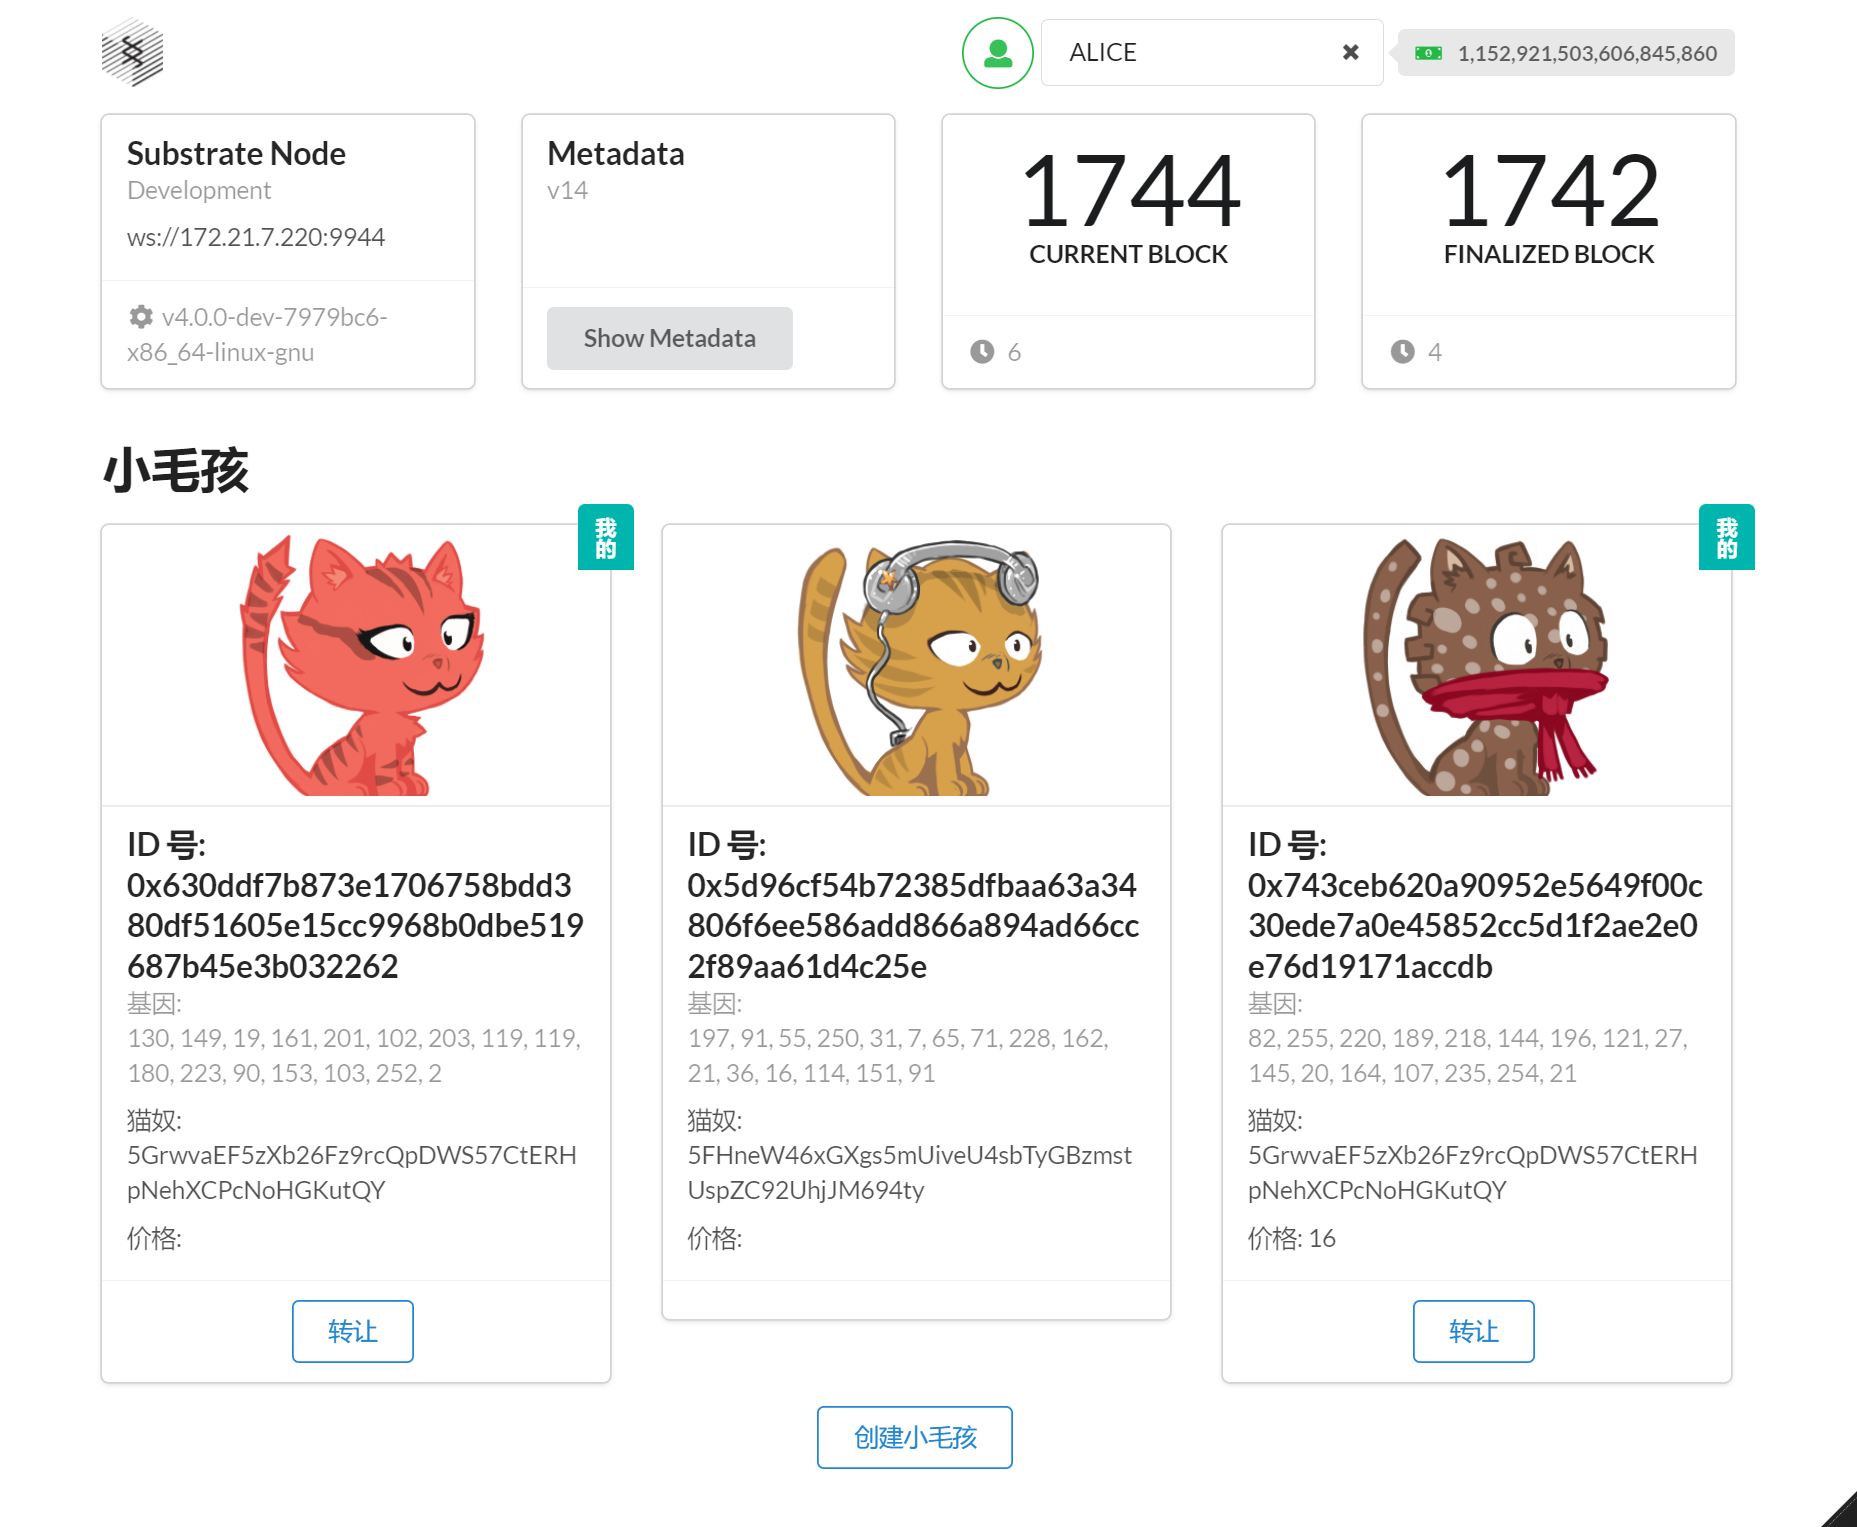
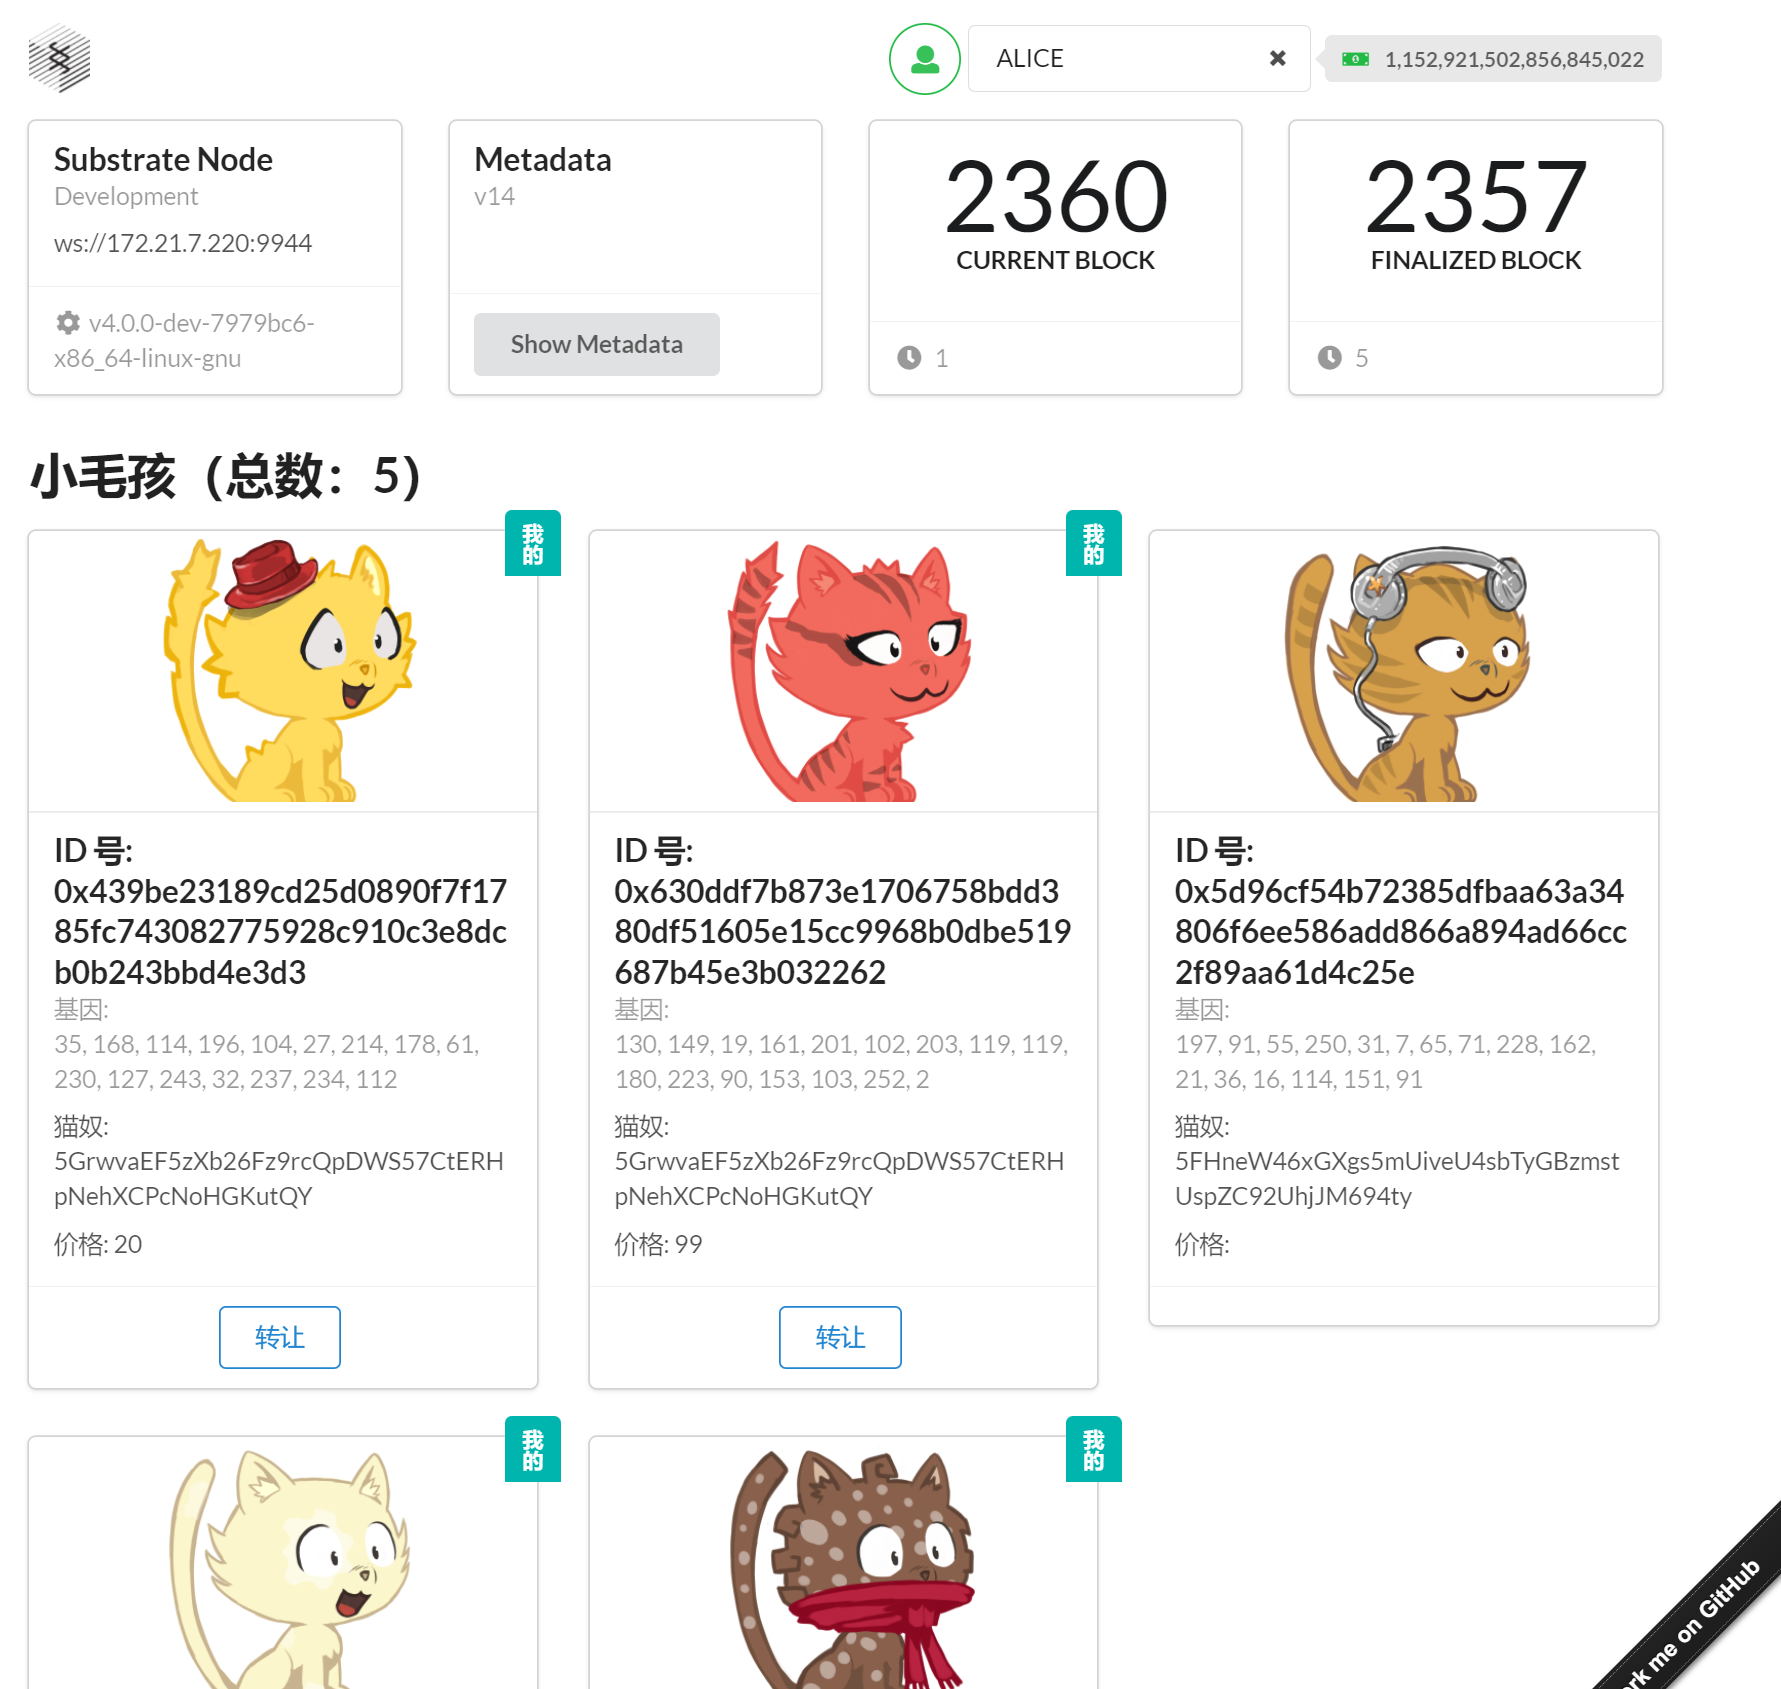
1.作业完成；

diff --git a/src/kitties/Kitties.js b/src/kitties/Kitties.js
@@ -14,13 +14,7 @@ export default function Kitties (props) {
   const [kittyCnt, setKittyCnt] = useState();
   const [status, setStatus] = useState('');
 
-  // const fetchKitties = () => {
-  // TODO: 在这里调用 `api.query.kittiesModule.*` 函数去取得猫咪的信息。
-  // 你需要取得：
-  //   - 共有多少只猫咪
-  //   - 每只猫咪的主人是谁
-  //   - 每只猫咪的 DNA 是什么，用来组合出它的形态
-  // };
+  // TODO: react 端组合回需要的数组结构 (3 分)
   const constructKitty = (entry) => {
     console.debug('kitty entry:', entry);
     const [hash, { value }] = entry;
@@ -36,21 +30,22 @@ export default function Kitties (props) {
       owner: owner.toJSON()
     });
   };
-
+  // TODO: 查询出链上猫咪总数 (3 分)
+  // TODO: 查询出链上猫咪的 ID, 所属主人，及其 DNA (4 分)
   const populateKitties = () => {
-    // TODO: 在这里添加额外的逻辑。你需要组成这样的数组结构：
-    //  ```javascript
-    //  const kitties = [{
-    //    id: 0,
-    //    dna: ...,
-    //    owner: ...
-    //  }, { id: ..., dna: ..., owner: ... }]
-    //  ```
-    //api.query.kittiesModule.kittyCnt(setKittyCnt);
-    // 这个 kitties 会传入 <KittyCards/> 然后对每只猫咪进行处理
-    api.query.kittiesModule.kitties.entries().then(
-      (kitties) => setKitties(kitties.map(entry => constructKitty(entry)))
-    );
+    let unsub = null;
+    const asyncFetch = async () => {
+      unsub = await api.query.kittiesModule.kittyCnt(async cnt => {
+        console.log('kittyCnt: ', cnt);
+        setKittyCnt(cnt.words[0]);
+        const entries = await api.query.kittiesModule.kitties.entries();
+        setKitties(entries.map(entry => constructKitty(entry)));
+      });
+    };
+    asyncFetch();
+    return () => {
+      unsub && unsub();
+    };
   };
 
   useEffect(populateKitties, [api, keyring]);

diff --git a/README.md b/README.md
@@ -1,6 +1,10 @@
-# 查询出链上猫咪总数 (3 分)
+# 对应的后台代码
+https://github.com/neoscript99/substrate-demo-kitties
 
-# 查询出链上猫咪的 ID, 所属主人，及其 DNA (4 分)
+# 前端要求1/2
+- 查询出链上猫咪总数 (3 分)
+- 查询出链上猫咪的 ID, 所属主人，及其 DNA (4 分)
 ![](doc/1.png)
 
 # 在 react 端组合回需要的数组结构 (3 分)
+![](doc/2.png)
